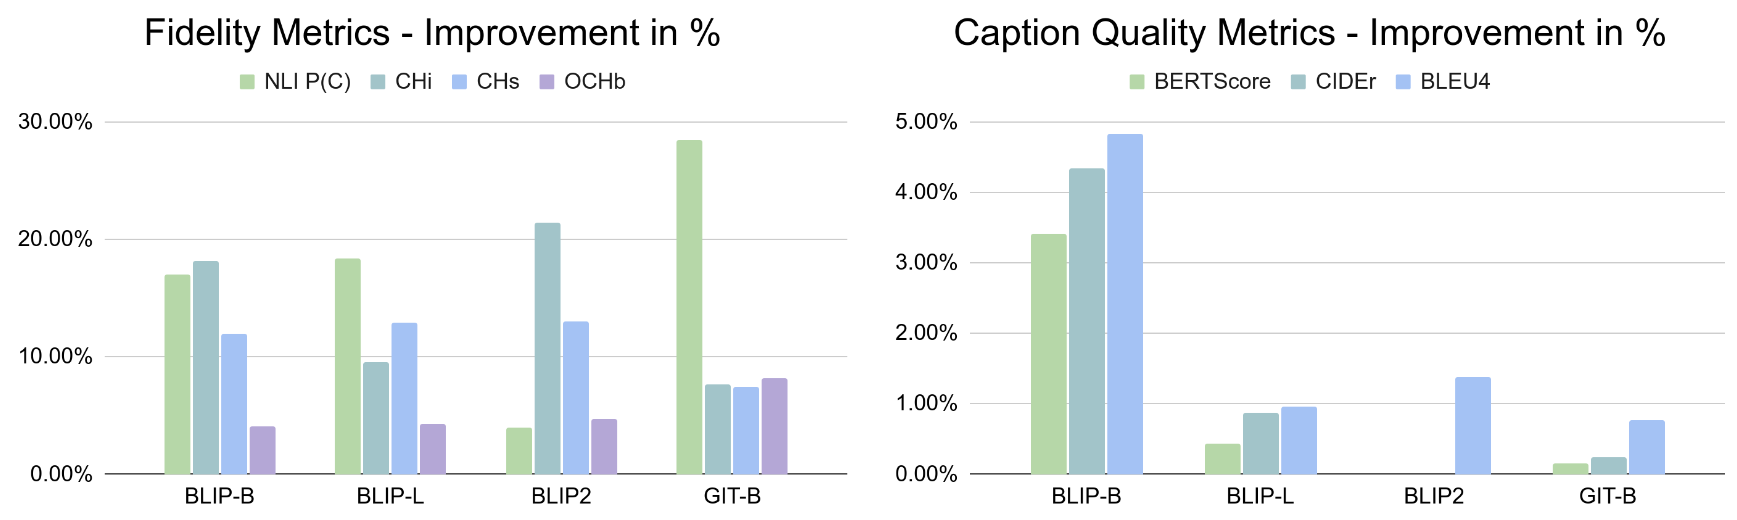
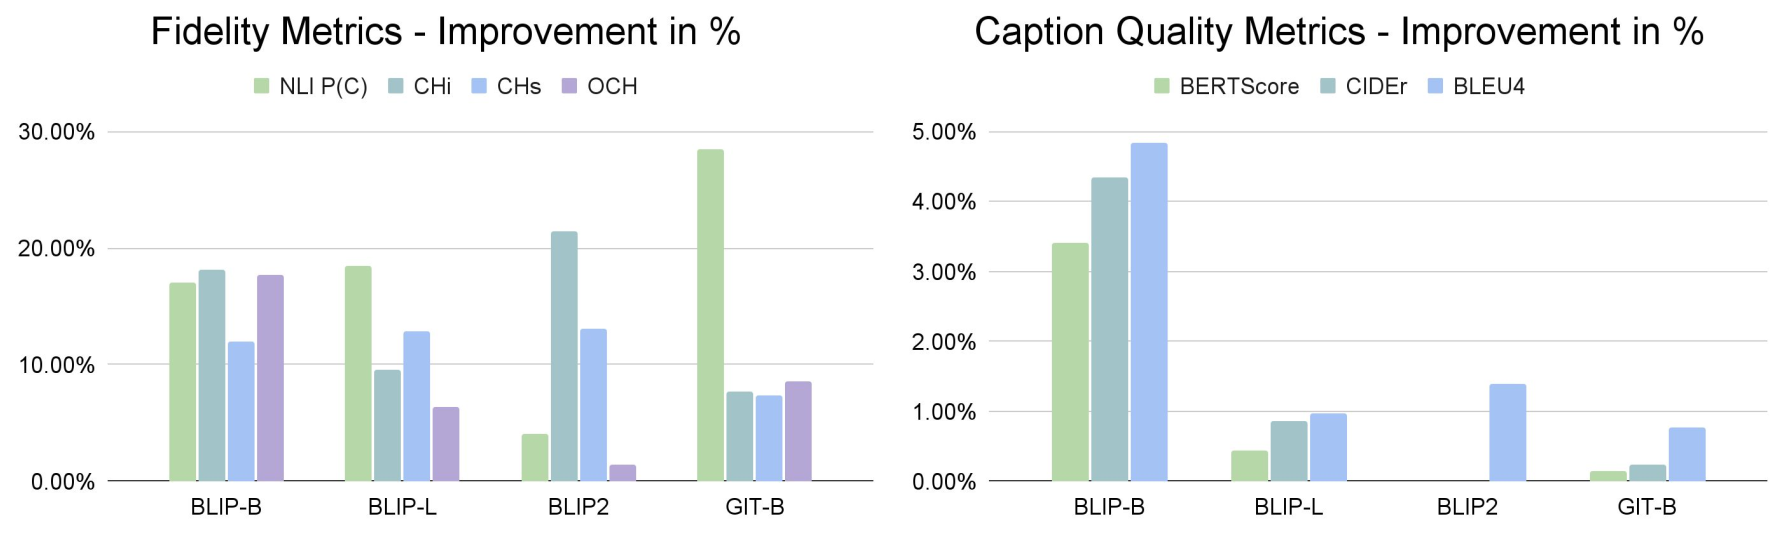
updated website

diff --git a/index.html b/index.html
@@ -139,11 +139,12 @@
       <!-- <div id="results-carousel" class="carousel results-carousel"> -->
       <div class="container">
       <h2 class="subtitle">
-        Hallucinated details are prevalent in the outputs of modern image captioning models and appear in a variety of forms, some highly non-trivial.
+         <!-- and appear in a variety of forms, some highly non-trivial. -->
+        Hallucinated details are prevalent in the outputs of modern image captioning models.
         Prior work has largely focused on detecting or mitigating hallucinations by using closed-vocabulary object lists, which simplify the problem but fail to capture most types of hallucinations that occur in practice.
         By leveraging recent progress in generative foundation models, we propose a unified framework for quantifying and mitigating open-vocabulary hallucinations.
         <br><br><br>
-        First, We introduce <b><u>OpenCHAIR</u></b>, a benchmark for evaluating open-vocabulary hallucinations which surpasses the existing benchmark CHAIR both in diversity and accuracy:
+        First, We introduce <b>OpenCHAIR</b>, a benchmark for evaluating open-vocabulary hallucinations which surpasses the existing benchmark <b>CHAIR</b> both in diversity and accuracy:
       </h2>
       </div>
   </div>
@@ -186,7 +187,7 @@
       <div class="container">
         <h2 class="subtitle">
 <!--           Hallucinated details are prevalent in the outputs of modern image captioning models.<br> -->
-          Additionally, we introduce <b><u>MOCHa</u></b>, a reinforcement learning-based approach that adjusts captioning models to output detailed, valid captions while avoiding such hallucinations:
+          Additionally, we introduce <b>MOCHa</b>, a reinforcement learning-based approach that adjusts captioning models to output detailed, valid captions while avoiding such hallucinations:
         </h2>
       </div>
  <!--  </div> -->
@@ -277,7 +278,7 @@
         <h2 class="title is-3">OpenCHAIR</h2>
         <div class="content has-text-justified">
           <p>
-            Instead of relying on closed object lists, <b>OpenCHAIR</b> uses a knowledgable LLM to perform fine-grained hallucination detection over a signifacntly larger vocabulary:
+            Instead of relying on closed object lists, <b>OpenCHAIR</b> uses a knowledgeable LLM to perform fine-grained hallucination detection over a significantly larger vocabulary:
           </p>
         </div>
         <div class="column is-centered has-text-centered">
@@ -286,7 +287,7 @@
         <div class="content has-text-justified">
           <p>
             To exploit the LLM's full potential we construct a new dataset by generating 2000 captions with highly diverse objects and let a powerful text-to-image model generate images for them.
-            We find that by using an open-vocabulary architecture we are not just able to significantly increase the benchmark's diversity, but also improve the evaluation accuracy with respect to a human evaluation:
+            We find that we are not just able to significantly increase the benchmark's diversity, but also improve the evaluation accuracy with respect to a human evaluator:
             <!-- The above illustrates the fundamentally different nature of quantifying open-vocabulary hallucinations with OpenCHAIR, compared to the closed-vocabulary evaluation of CHAIR. -->
 <!--             Given the above image and groundtruth information, OpenCHAIR extracts concrete objects from a
             predicted caption and identifies hallucinated objects from this list by querying an LLM.
@@ -296,11 +297,13 @@
         <div class="column is-centered has-text-centered">
         <img src="static/figures/OCH_eval_table.png" alt="cars peace"/>
         </div>
+        <p style="text-align:center;">*CHAIR also includes a coarse synonym list.</p>
         </div>
       </div>
     </div>
   </div>
-</section> 
+</section>
+
 
 <!-- <section class="hero is-small">
   <div class="hero-body">
@@ -358,18 +361,11 @@
     <!-- Abstract. -->
     <div class="columns is-centered has-text-centered">
       <div class="column is-four-fifths">
-        <h2 class="title is-3">How does MOCHa work?</h2>
+        <h2 class="title is-3">MOCHa</h2>
         <div class="content has-text-justified">
           <p>
-           <!-- To jointly optimize for caption fidelity and semantic adequacy, we combine modern deep reinforcement learning methods along with a carefully designed reward model.
-           The algorithm iteratively collects a batch of data from a image captioning model M (left side) and then applies an optimization step to that model (right side).
-           To optimize for caption generations that satisfy the properties described above, we adopt the Proximal Policy Optimization (PPO) RL algorithm, which has been used by numerous recent works on text generation. PPO extends the REINFORCE algorithm (known as SCST in the context of image captioning) by using a clipped surrogate objective to avoid instabilities and increase sample efficiency. -->
-
-           To jointly optimize for caption fidelity and semantic adequacy, we apply the popular Proximal Policy Optimization (PPO) RL algorithm along with a carefully designed reward model.
-           The algorithm iteratively collects a batch of data from the image captioning model M (left side) and then applies an optimization step to it (right side):
-
-
-           <!-- The multi-objective reward reinforces M to produce captions closer to the high-scoring captions and further from the low-scoring captions. -->
+           To mitigate captioning hallucinations in the open-vocabulary setting, we propose an RL-based pipeline.
+           The algorithm iteratively collects a batch of data from the image captioning model M (left side), evaluates it, and applies an optimization step (right side):
           </p>
         </div>
         <div class="column is-centered has-text-centered">
@@ -377,10 +373,14 @@
       </div>
         <div class="content has-text-justified">
           <p>
-            We build the multi-objective reward model as follows. In order to measure fidelity to the input image, we feed a GT reference caption and a generated caption to a pre-trained Natural Language Inference (NLI) model, which predicts the probability of contradiction between the two texts.
+            We wish to optimize for the competing objectives of output fidelity (low hallucination rate) and adequacy (including sufficient details to describe the input image), as optimizing for one of these alone may cause the other to deteriorate. <br>
+            MOCHa's multi-objective reward model is able to handle this delicate trade-off by utilizing a SOTA Natural Language Inference (NLI) model to measure open-vocabulary hallucinations, and BERTScore, a pretrained model measuring the general quality of the generated text. Both models score the predicted captions w.r.t reference captions.
+
+
+            <!-- In order to measure fidelity to the input image, we feed a GT reference caption and a generated caption to a pre-trained Natural Language Inference (NLI) model, which predicts the probability of contradiction between the two texts.
             To measure adequacy we use BERTScore, a pretrained model measuring the general quality of the generated text relative to the GT reference.
             Following prior work, we add a Kullback–Leibler (KL) divergence penalty to the reward model which constrains the model to stay close to its initial state. This prevents the model from 'forgetting' valuable knowledge that it acquired during pre-training (like caption fluency and diversity) and restrains it from converging to adversarial solutions which 'reward-hack' the objective.
-            Our total reward function takes the form \(r = \alpha \cdot r_{f} + (1-\alpha) \cdot r_{a} + \beta \cdot r_{kl}\) , where \(\alpha\) and \(\beta\) are positive scalars controlling the tradeoff between our multiple objectives.
+            Our total reward function takes the form \(r = \alpha \cdot r_{f} + (1-\alpha) \cdot r_{a} + \beta \cdot r_{kl}\) , where \(\alpha\) and \(\beta\) are positive scalars controlling the tradeoff between our multiple objectives. -->
             <!-- PPO extends the REINFORCE algorithm (known as SCST in the context of image captioning) by using a clipped surrogate objective to avoid instabilities and increase sample efficiency.  -->
           </p>
         </div>
@@ -393,7 +393,7 @@
 <section class="hero is-small">
   <div class="hero-body">
     <div class="container">
-      <h2 class="title has-text-centered">MOCHa Is Able To Reduce Hallucinations While Maintaining Caption Quality:</h2>
+      <h2 class="title has-text-centered">MOCHa Is Able To Reduce Hallucinations While Maintaining Caption Quality</h2>
       <!-- <h2 class="title has-text-centered">MOCHa Improves A Variety of Models In A Variety Of Scales</h2> -->
       <div class="column is-centered has-text-centered">
         <img src="static/figures/visualized_results_table.png" class="is-centered"/>
